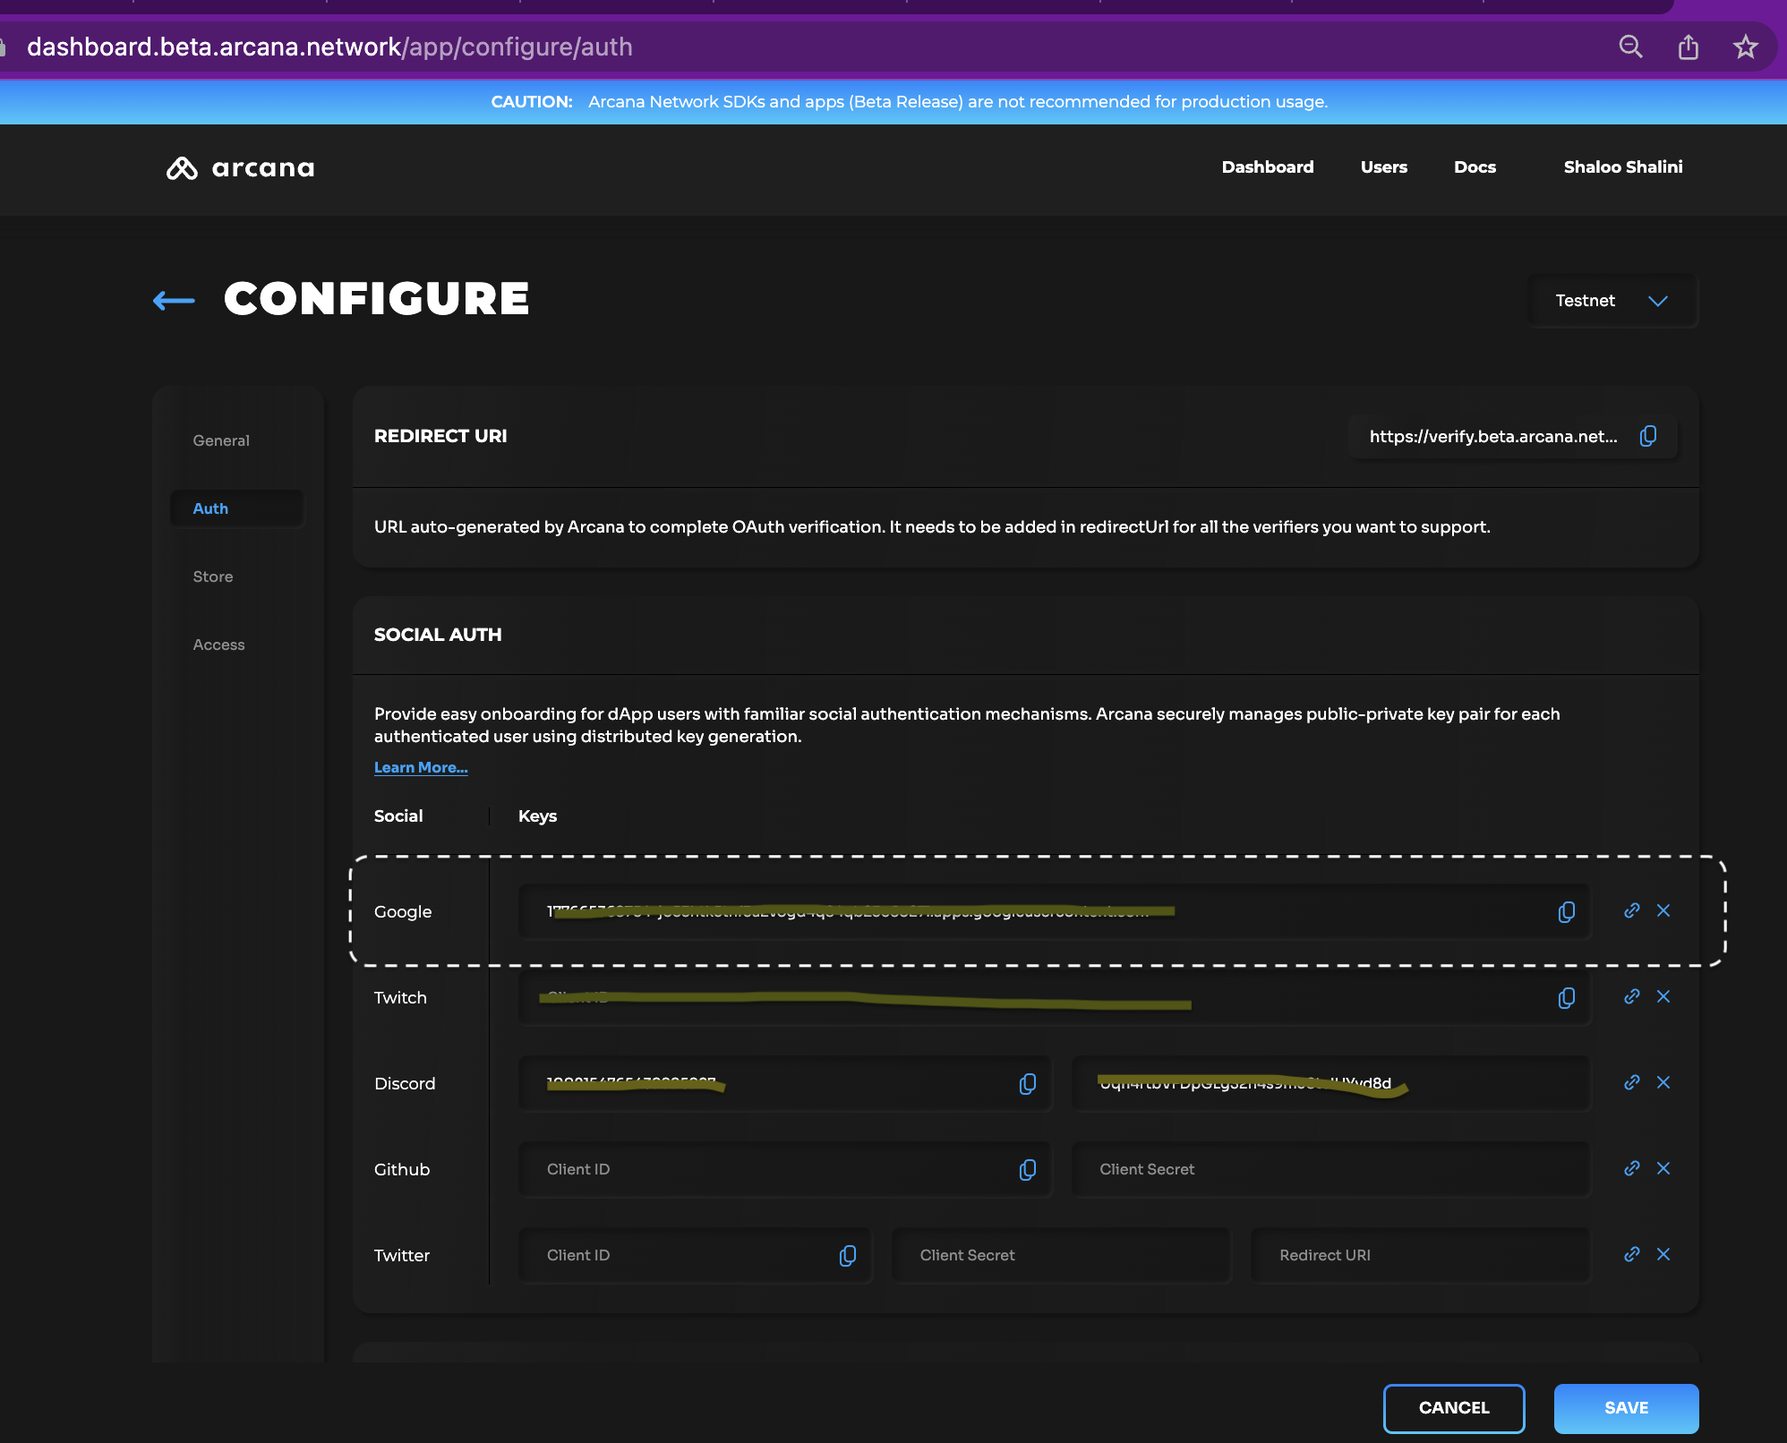
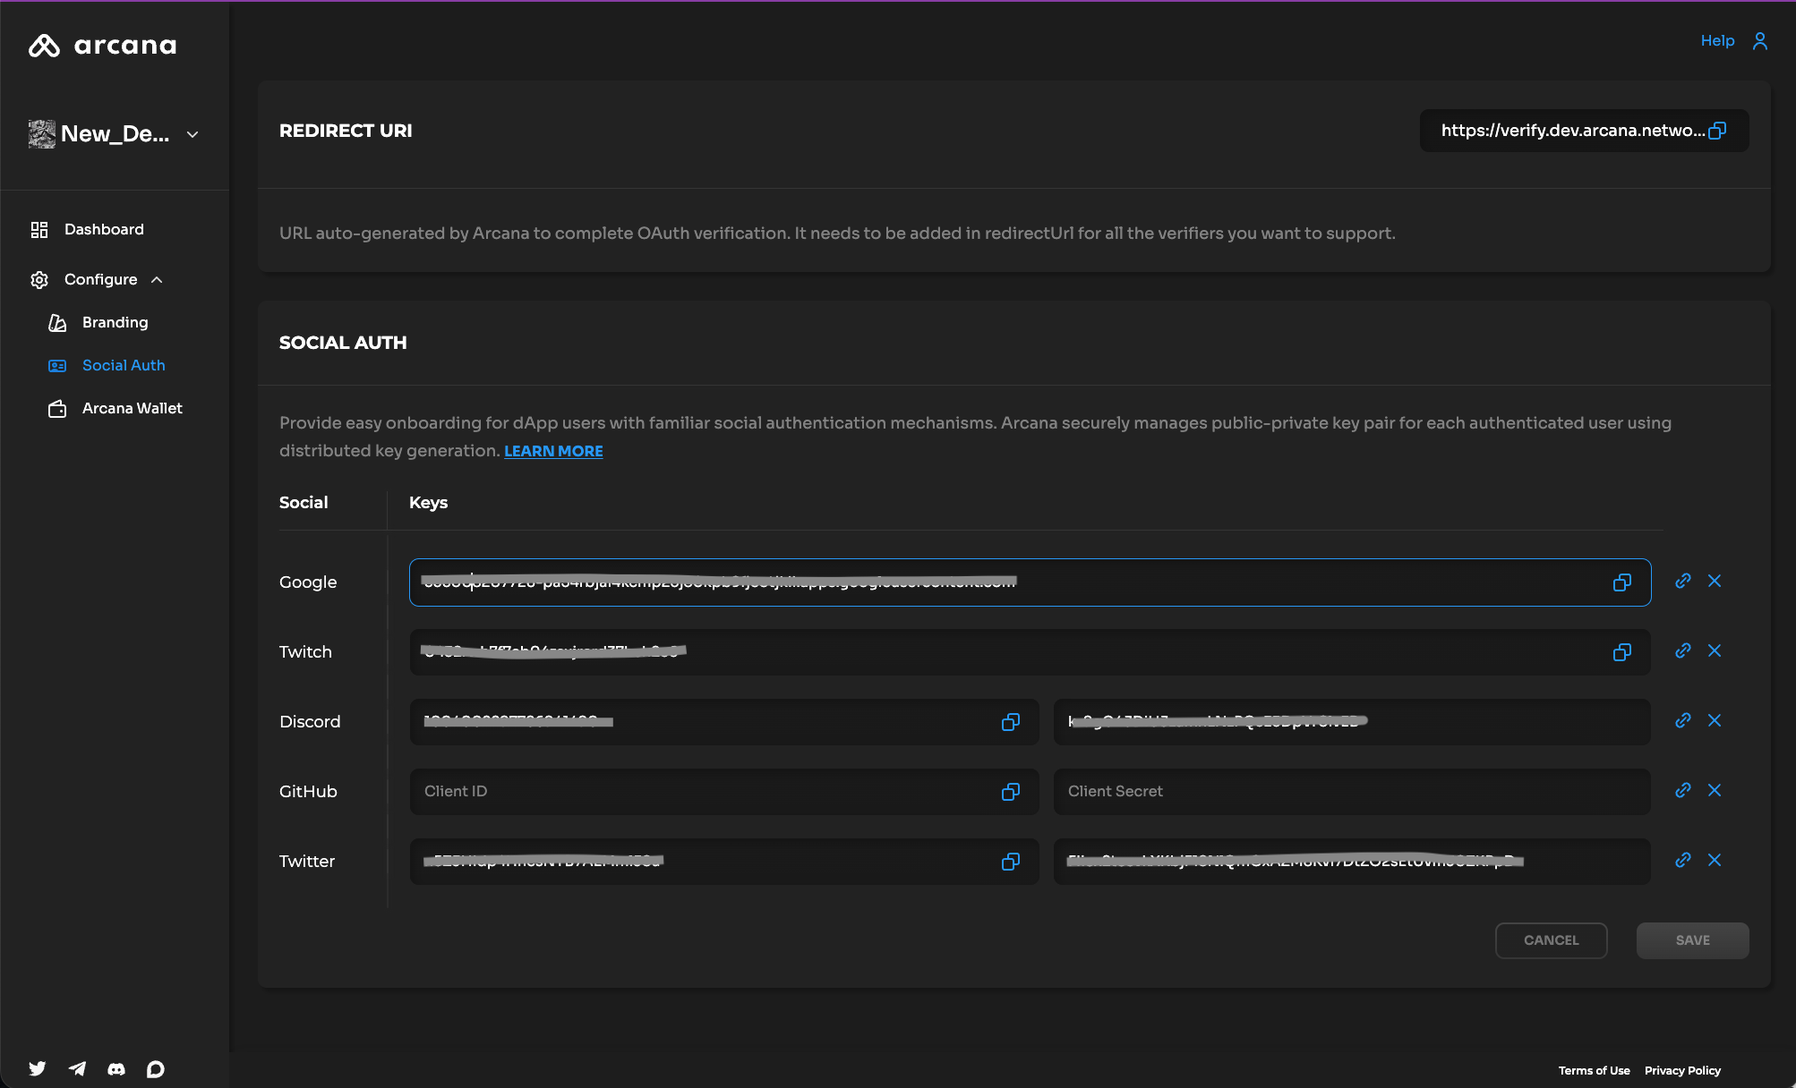
Fix: Dashboard updates #AR-5246

diff --git a/includes/text-snippets/twitter_config_steps.md b/includes/text-snippets/twitter_config_steps.md
@@ -4,11 +4,19 @@ To enable Twitter based social authentication in Web3 applications, developers m
 
 Go to the Arcana Dashboard: {% include "./text-snippets/db_portal_url.md" %}
 
-Register your dApp by creating a new dApp. Specify a dApp name, and select the preferred `Storage Region`. Go to the `Auth` tab and copy the **redirect URI** value displayed there.  This will be used in the next step to generate Twitter authentication credentials.
+Register your dApp by creating a new dApp entry and specifying a name using the 'Create New App' wizard.
+
+!!! tip "Registering the Application"
+    
+      {% include "./text-snippets/socialauth_add_config.md" %}
+
+Go to the `Configure->Social Auth` configuration section and copy the **redirect URI** value displayed there.   This will be used in the next step to generate Twitter authentication credentials.
 
 ![redirect_page](/img/an_dApp_config_redirect_uri.png)
 
-You can choose to use defaults for other settings or change them as per your use case. Refer to the [how to configure dApp guide]({{page.meta.arcana.root_rel_path}}/howto/config_dapp.md) for details. Do not close the dashboard browser tab. Open another tab and set up Twitter OAuth. Then come back to the Dashboard tab and complete the dApp configuration settings.
+You can choose to use defaults for other settings or change them as per your use case. Refer to the [how to configure dApp guide]({{page.meta.arcana.root_rel_path}}/howto/config_dapp.md) for details. 
+
+Do not close the dashboard browser tab. Open another tab and set up Twitter OAuth. Then come back to the Dashboard tab and complete the dApp configuration settings.
 
 ## Step 2: Use Twitter Developer Console
 
@@ -60,10 +68,10 @@ Make sure you save all the settings.
 
 ## Step 3: Update Arcana Dashboard
 
-Revisit the dashboard `Auth` configuration tab. Refer to the "Twitter" field and paste the **API Key** assigned by Twitter, in the previous step. 
+Revisit the Arcana Developer Dashboard portal. Click on your app entry and visit the application dashboard. Click `Configure->Social Auth` in the LHS navigation bar. Refer to the "Twitter" settings and paste the **API Key** assigned by Twitter, in the previous step. 
 
 ![howto_config_twitter_clientid](/img/an_dApp_twitter_config.png)
 
-Save the settings. Arcana Network assigns an **App Address** to every registered and configured dApp. You need to save this **App Address** and use it while integrating the dApp with the Auth SDK. ![howto_app_id](/img/howto_app_id.png)
+Save the settings. Arcana Network assigns an **App Address** to every registered and configured dApp. You need to save this **App Address** and use it while integrating the dApp with the Auth SDK. ![App Address](/img/an_db_appid.png)
 
 *You are all set with Twitter Setup. Integrate Web3 application with the Arcana Auth SDK and call social login function when the user chooses to log in.*

diff --git a/includes/text-snippets/db_settings.md b/includes/text-snippets/db_settings.md
@@ -1,25 +1,29 @@
-Developers can configure dApps using the various tabs in the dashboard. **Click** on the tabs below to see available configuration settings for each category.
+Developers can click **Configure** and provide dApp settings for using Auth SDK using the various tabs in the dashboard 'Configure' section. 
 
-=== "General"
+<img src="/img/an_db_configure_details.png" alt="config details" width="100px"></img>
+
+
+**Click** on the tabs below to see available configuration settings for each category.
+
+=== "Branding"
 
     **Settings:**
 
-    * Application name, wallet branding/logo customization
-    * Control to delete the dApp record from the Arcana blockchain
+    * **Upload Logo:** Upload light and dark theme branding/logo images to customize the wallet UI.
+    * **Wallet Theme:** Choose an appropriate wallet theme for your application.<br></br><img alt="Branding" src="/img/an_db_configure_branding.png" width="85%"></img>
 
-=== "Auth"
+=== "Social Auth"
 
     **Settings:**
 
     * **Redirect URI:** URL auto-generated by Arcana to complete OAuth verification. It needs to be added in the redirect URI for all the social authentication providers that are configured for the dApp.
-    * **Social Auth:** Select dApp user onboarding experience and provide [social authentication provider specific configuration details]({{page.meta.arcana.root_rel_path}}/howto/config_social_providers.md). <img alt="Social OAuth" src="/img/an_db_social_auth.png"></img>
-    * **Wallet:** Website Domain - Set our website domain here. It is used for security reasons by the server, to restrict Arcana wallet from loading anywhere else other than the domain you specify. Arcana uses frame-ancestor CSP for restricted domains.
+    * **Social Auth:** Select dApp user onboarding experience and provide [social authentication provider specific configuration details]({{page.meta.arcana.root_rel_path}}/howto/config_social_providers.md). <br></br><img alt="Social OAuth" src="/img/an_db_configure_social.png" width="85%"></img>
 
-=== "Access"
+=== "Arcana Wallet"
 
     **Settings:**
 
-    * **Block chain type: ** Preferred default blockchain network (Optional). 
+    * **Wallet:** Website Domain - Set our website domain here. It is used for security reasons by the server, to restrict Arcana wallet from loading anywhere else other than the domain you specify. Arcana uses frame-ancestor CSP for restricted domains.<br></br><img alt="Social OAuth" src="/img/an_db_configure_wallet.png" width="85%"></img>
 
 !!! important
 

diff --git a/includes/text-snippets/discord_config_steps.md b/includes/text-snippets/discord_config_steps.md
@@ -4,7 +4,7 @@ To enable Discord based social authentication in Web3 applications, developers m
 
 Go to the Arcana Dashboard: {% include "./text-snippets/db_portal_url.md" %} 
 
-Register your dApp by creating a new dApp, specifying a name, and choosing your preferred `Storage Region` in the dashboard. 
+Register your dApp by creating a new dApp entry and specifying a name using the 'Create New App' wizard. 
 
 !!! tip "Registering the Application"
     
@@ -12,7 +12,7 @@ Register your dApp by creating a new dApp, specifying a name, and choosing your 
 
 You can choose to use defaults for other settings or change them as per your use case. Refer to the [how to configure dApp guide]({{page.meta.arcana.root_rel_path}}/howto/config_dapp.md) for details.
 
-Go to the `Auth` configuration section and copy the **redirect URI** value displayed there.  This will be used in the next step to setup Discord OAuth.![redirect_page](/img/an_dApp_config_redirect_uri.png)
+Go to the `Configure->Social Auth` configuration section and copy the **redirect URI** value displayed there.  This will be used in the next step to setup Discord OAuth.![redirect_page](/img/an_dApp_config_redirect_uri.png)
 
 Do not close the dashboard browser tab. Open another tab and set up Discord OAuth. Then revisit the Dashboard tab to complete the dApp configuration settings.
 
@@ -30,12 +30,12 @@ Copy the **Application ID** and the **public key**. It will be required in the n
 
 ## Step 3: Update Arcana Dashboard
 
-In the Arcana Dashboard `Auth` tab, refer to the "Discord" section. Paste the **Application ID** and **public key** assigned by Discord, in the previous step as the ClientID and secret respectively. 
+Revisit the Arcana Developer Dashboard portal. Click on your app entry and visit the application dashboard. Click `Configure->Social Auth` in the LHS navigation bar and refer to the "Discord" settings. Paste the **Application ID** and **public key** assigned by Discord, in the previous step as the ClientID and secret respectively. 
 
 ![howto_config_discord_clientid](/img/an_dApp_discord_config.png)
 
 Save the settings. Arcana Network assigns an **App Address** to every registered and configured dApp. If you plan to integrate with the Arcana SDKs, you need to save this **App Address**. 
 
-![howto_app_id](/img/howto_app_id.png)
+![App Address](/img/an_db_appid.png)
 
 *You are all set with Discord Setup. Integrate Web3 application with the Arcana Auth SDK and call social login function when the user chooses to log in.*

diff --git a/includes/text-snippets/github_config_steps.md b/includes/text-snippets/github_config_steps.md
@@ -8,9 +8,9 @@ Go to the Arcana Dashboard: {% include "./text-snippets/db_portal_url.md" %}
           
       {% include "./text-snippets/socialauth_add_config.md" %}
   
-Register your dApp by creating a new dApp. Specify a dApp name, and select the preferred `Storage Region`. Use defaults for other settings or change them as per your use case. Refer to the [how to configure dApp guide]({{page.meta.arcana.root_rel_path}}/howto/config_dapp.md) for details.
+Register your dApp by creating a new dApp entry and specify a dApp name. Use defaults for other settings or change them as per your use case. Refer to the [how to configure dApp guide]({{page.meta.arcana.root_rel_path}}/howto/config_dapp.md) for details.
 
-Go to the `Auth` tab in the dashboard and copy the **redirect URI** value displayed there.  This will be used in the next step to generate GitHub OAuth credentials.
+Go to the `Configure->Social Auth` configuration section and copy the **redirect URI** value displayed there.   This will be used in the next step to generate GitHub OAuth credentials.
 
 ![redirect_page](/img/an_dApp_config_redirect_uri.png)
 
@@ -38,10 +38,10 @@ Copy and save the **Client ID** and the **secret** assigned by GitHub for the ne
 
 ## Step 3: Update Arcana Dashboard
 
-Revisit the dashboard `Auth` configuration tab. Refer to the "GitHub" field and paste the **Client ID** and the **Secret** assigned by GitHub, in the previous step.
+Revisit the Arcana Developer Dashboard portal. Click on your app entry and visit the application dashboard page. Click `Configure->Social Auth` in the LHS navigation bar and refer to the "GitHub" field. Paste the **Client ID** and the **Secret** assigned by GitHub, in the previous step.
 
 ![howto_config_github_clientid](/img/an_dApp_github_config.png)
 
-Save the settings. Arcana Network assigns an **App Address** to every registered and configured dApp. You need to save this **App Address** and use it while integrating the dApp with the Auth SDK. ![howto_app_id](/img/howto_app_id.png)
+Save the settings. Arcana Network assigns an **App Address** to every registered and configured dApp. You need to save this **App Address** and use it while integrating the dApp with the Auth SDK. ![App Address](/img/an_db_appid.png)
 
 *You are all set with GitHub Setup. Integrate Web3 application with the Arcana Auth SDK and call social login function when the user chooses to log in.*

diff --git a/includes/text-snippets/twitch_config_steps.md b/includes/text-snippets/twitch_config_steps.md
@@ -4,13 +4,15 @@ To enable Twitch based social authentication in Web3 applications, developers mu
 
 Go to the Arcana Dashboard: {% include "./text-snippets/db_portal_url.md" %}
 
+Register your dApp by creating a new dApp entry and specifying a name using the 'Create New App' wizard. 
+
 !!! tip "Registering the Application"
           
       {% include "./text-snippets/socialauth_add_config.md" %}
 
-Register your dApp by creating a new dApp. Specify a dApp name, and select the preferred `Storage Region`. Use defaults for other settings or change them as per your use case. Refer to the [how to configure dApp guide]({{page.meta.arcana.root_rel_path}}/howto/config_dapp.md) for details.
+Use defaults for other settings or change them as per your use case. Refer to the [how to configure dApp guide]({{page.meta.arcana.root_rel_path}}/howto/config_dapp.md) for details.
 
-Go to the `Auth` tab and copy the **redirect URI** value displayed there.  This will be used in the next step to generate Twitch OAuth credentials.
+Go to the `Configure->Social Auth` configuration section and copy the **redirect URI** value displayed there.   This will be used in the next step to generate Twitch OAuth credentials.
 
 ![redirect_page](/img/an_dApp_config_redirect_uri.png)
 
@@ -30,12 +32,12 @@ Copy the **ClientID** that is automatically generated by Twitch for the newly re
 
 ## Step 3: Update Arcana Dashboard
 
-Revisit the dashboard `Auth` configuration tab. Refer to the "Twitch" field and paste the **Client ID** assigned by Twitch Developer Console, in the previous step, in the input text field. 
+Revisit the Arcana Developer Dashboard portal. Click on your app entry and visit the application dashboard. Click `Configure->Social Auth` in the LHS navigation bar. Refer to the "Twitch" field and paste the **Client ID** assigned by Twitch Developer Console, in the previous step, in the input text field. 
 
 ![howto_config_twitch](/img/an_dApp_twitch_config.png)
 
 Save the settings. Arcana Network assigns an **App Address** to every registered and configured dApp. You need to save this **App Address** and use it while integrating the dApp with the Auth SDK.
 
-![howto_app_id](/img/howto_app_id.png)
+![App Address](/img/an_db_appid.png)
 
 *You are all set with Twitch Setup. Integrate Web3 application with the Arcana Auth SDK and call social login function when the user chooses to log in.*

diff --git a/includes/text-snippets/google_config_steps.md b/includes/text-snippets/google_config_steps.md
@@ -4,13 +4,15 @@ To enable Google based social authentication in Web3 applications, developers mu
 
 Go to the Arcana Dashboard: {% include "./text-snippets/db_portal_url.md" %}
 
+Register your dApp by creating a new dApp entry and specifying a name using the 'Create New App' wizard. .
+
 !!! tip "Registering the Application"
 
       {% include "./text-snippets/socialauth_add_config.md" %}
   
-Register your dApp by creating a new dApp. Specify a dApp name, and select `Storage Region` as per dApp requirements.You can use defaults for other settings or change them as per your use case. Refer to the [how to configure dApp guide]({{page.meta.arcana.root_rel_path}}/howto/config_dapp.md) for details.
+You can use defaults for other settings or change them as per your use case. Refer to the [how to configure dApp guide]({{page.meta.arcana.root_rel_path}}/howto/config_dapp.md) for details.
 
-Go to the `Auth` tab in the dashboard and copy the **redirect URI** value displayed there.  This will be used in the next step to generate Google Client ID.
+Go to the `Configure->Social Auth` configuration section and copy the **redirect URI** value displayed there.  This will be used in the next step to generate Google Client ID.
 
 ![redirect_page](/img/an_dApp_config_redirect_uri.png)
 
@@ -40,12 +42,12 @@ Save the **Client ID** assigned by Google. It will be required in the next step.
 
 ## Step 3: Update Arcana Dashboard
 
-Revisit the Arcana Dashboard `Auth` configuration tab in your browser. Refer to the "Google" field and paste the **Client ID** assigned by Google Cloud Console in the previous step. 
+Revisit the Arcana Developer Dashboard portal. Click on your app entry and visit the application dashboard. Click `Configure->Social Auth` in the LHS navigation bar. Refer to the "Google" settings and paste the **Client ID** assigned by Google Cloud Console in the previous step. 
 
 ![howto_google_auth_type](/img/an_dApp_google_config.png)
 
 Save the settings on the dashboard. Arcana Network assigns an **App Address** to every registered and configured dApp. If you plan to integrate with Arcana SDKs, you need to save this **App Address**. 
 
-![howto_app_id](/img/howto_app_id.png)
+![App Address](/img/an_db_appid.png)
 
 *You are all set with Google Setup. Integrate Web3 application with the Arcana Auth SDK and call social login function when the user chooses to log in.*

diff --git a/includes/text-snippets/db_register_dapp.md b/includes/text-snippets/db_register_dapp.md
@@ -2,9 +2,22 @@ At the very first login to the dashboard, you will see the **Create New App** wi
 
 <img src="/img/icons/dashboard_newappwizard.png" alt="create new app wizard icon" width="150px"></img>
 
-Use the wizard to register your dApp by providing the following information:
+Use the wizard 'Create New App' and provide the following inputs to create your app entry:
 
 * **App Name:** The name of your registered application
+
+<!--
 * **Region:** The physical location where the application's configuration data will be stored.
+-->
+
+Click **Create** to create a new application entry and register it with the Arcana network.
 
 ![Register dApp](/img/dashboard_create_newapp_screen.png)
+
+!!! caution
+
+      Once an application entry is created, you cannot edit the application name. To do that, you will need to delete the application entry on the dashboard and create a new one.
+
+After successful registration, you will see the application dashboard screen as shown below:
+
+![New app dashboard](/img/an_db_new_app_screen.png)

diff --git a/includes/text-snippets/db_login.md b/includes/text-snippets/db_login.md
@@ -1,7 +1,7 @@
  To log into the Arcana Network Developer Dashboard, go to {% include "./text-snippets/db_portal_url.md" %} and select a login option on the welcome screen.
 
-![Welcome screen](/img/WelcomeScreen_Arcana.png)
+![Welcome screen](/img/ab_db_welcome.png)
 
 !!! tip
     
-      The Arcana Network protocol [aggregates multiple social account login identities]({{page.meta.arcana.root_rel_path}}/concepts/authtype/aggregatelogin.md) of application users under a single user account, allowing them to access their dashboard using any of their linked social media accounts
+      The Arcana Network protocol [aggregates multiple social account login identities]({{page.meta.arcana.root_rel_path}}/concepts/authtype/aggregatelogin.md) of dashboard users under a single user account, allowing developers to access their dashboard application settings using any of their linked social media accounts.

diff --git a/docs/db/config_dApp_with_db.md b/docs/db/config_dApp_with_db.md
@@ -61,6 +61,16 @@ You can monitor application usage statistics via the dashboard.
 
 ![Dashboard metrics](/img/an_db_metrics.png)
 
+### Delete Application
+
+To de-register an application the developers must delete the entry using the dashboard. Go to the 'Manage Apps' dashboard page that lists all the registered applications.  
+
+![Manage Apps Dashboard](/img/an_db_manage_apps.png)
+
+Select the application you wish to de-register and choose **Delete**.
+
+![Delete App](/img/an_db_delete_app.png)
+
 ## Dashboard FAQ
 
 New users can get help with Auth SDK configuration and dashboard usage by consulting the [Arcana Dashboard FAQ]({{page.meta.arcana.root_rel_path}}/faq/faq_db.md) or contacting {% include "./text-snippets/support_email_link.md" %}.

diff --git a/docs/howto/config_dapp.md b/docs/howto/config_dapp.md
@@ -43,6 +43,14 @@ You have successfully registered and configured your application.
 
     {% include "./text-snippets/warn_config_wallet_ui.md" %}
 
+To delete the application entry, visit the **Manage Apps** screen on the developer dashboard.
+
+<img src="/img/an_db_manage_apps.png" alt="manage apps" width="85%"></img>
+
+Use **Delete** to remove the application entry and de-register it.
+
+<img src="/img/an_db_delete_app.png" alt="Delete app entry" width="85%"></img>
+
 ## What's next?
 
 After registering and configuring the application, install the Auth SDK and then [integrate it with the application]({{page.meta.arcana.root_rel_path}}/howto/integrate_auth/index.md) to enable user authentication and signing of Web3 blockchain transactions.

diff --git a/includes/text-snippets/db_prerequisites.md b/includes/text-snippets/db_prerequisites.md
@@ -1,6 +1,6 @@
-* Developers must use the Arcana dashboard to configure the Auth SDK. 
+* Developers must use the Arcana Developer Dashboard to configure the Auth SDK usage settings before integrating their application.
 
-* One of the following social provider accounts is required to log in to the dashboard. Alternatively, passwordless login option can be used as well.
+* To log in to the Arcana Developer Dashboard, one of the following social provider accounts is required. Alternatively, passwordless login option can be used as well.
 
     - Google
     - GitHub

diff --git a/docs/howto/onboard_users/wallet_pwdless_login.md b/docs/howto/onboard_users/wallet_pwdless_login.md
@@ -26,7 +26,7 @@ Go to the Arcana Dashboard: {% include "./text-snippets/db_portal_url.md" %}
 
 If this is your first visit to the dashboard, create a new entry for your dApp to register it. Once the dApp is registered using the dashboard, Arcana Network assigns an **App Address** for every dApp.
 
-  ![howto_app_id](/img/howto_app_id.png)
+  ![Get App Address](/img/an_db_appid.png)
 
 !!! info
 
